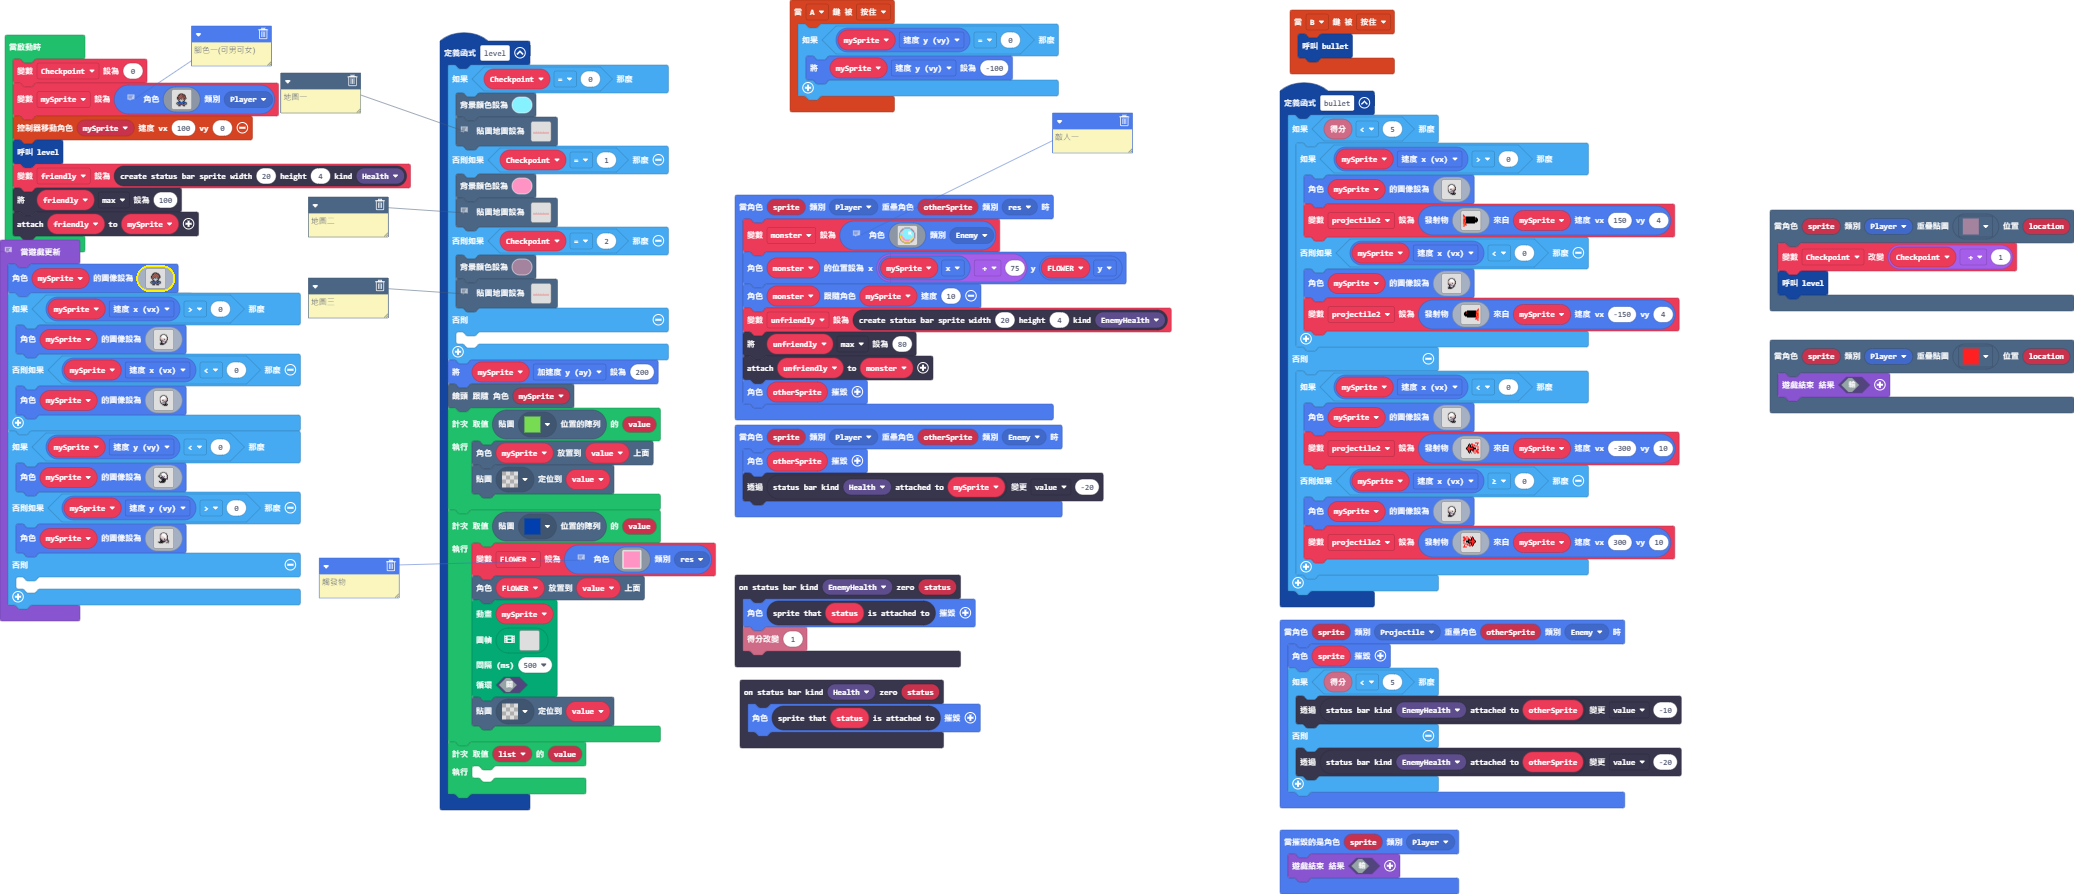
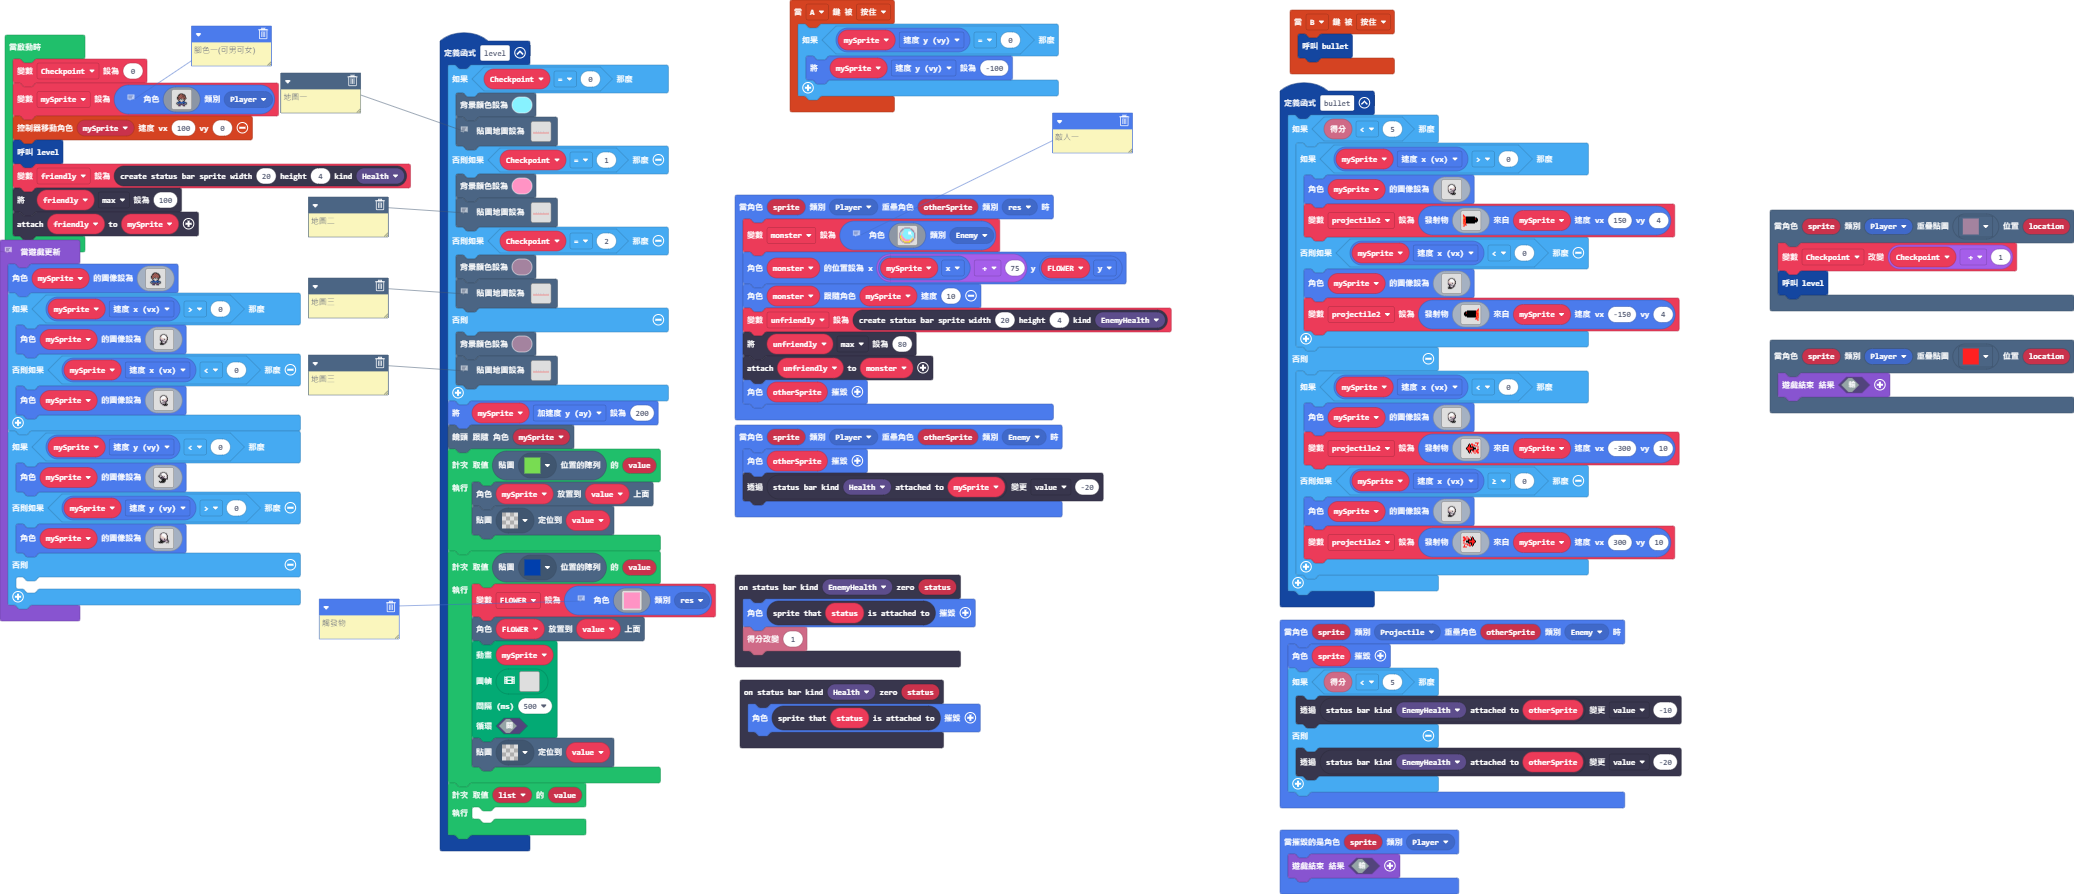
更新 main.blocks, main.ts, tilemap.g.jres, tilemap.g.ts

Changed region(s): [[0.1234, 0.3624, 0.3703, 0.9664]]

diff --git a/tilemap.g.ts b/tilemap.g.ts
@@ -55,22 +55,6 @@ namespace myTiles {
 . . . . . . . . . . . . . . . . 
 . . . . . . . . . . . . . . . . 
 `, [myTiles.transparency16], TileScale.Sixteen);
-            case "層級1":
[1 lines of base64/hex data omitted]
-..................................................
-..................................................
-..................................................
-..................................................
-..................................................
-..................................................
-..................................................
-..................................................
-..................................................
-222222222222....222....222......2222....22222.2222
-..................................................
-..................................................
-..................................................
-`, [myTiles.transparency16,myTiles.tile2,sprites.dungeon.floorLight0,myTiles.tile3,myTiles.tile4,myTiles.tile5], TileScale.Sixteen);
             case "層級4":
             case "層級4":return tiles.createTilemap(hex`1000100000000000000000000000000000000000000000000000000000000000000000000000000000000000000000000000000000000000000000000000000000000000000000000000000000000000000000000000000000000000000000000000000000000000000000000000000000000000000000000000000000000000000000000000000000000000000000000000000000000000000000000000000000000000000000000000000000000000000000000000000000000000000000000000000000000000000000000000000000000000000000000000000000000000000000000000000000000000000000000000000000000000000000000000000000000000`, img`
 . . . . . . . . . . . . . . . . 
@@ -168,6 +152,117 @@ namespace myTiles {
 `, [myTiles.transparency16], TileScale.Sixteen);
             case "層級9":
             case "層級9":return tiles.createTilemap(hex`1000100000000000000000000000000000000000000000000000000000000000000000000000000000000000000000000000000000000000000000000000000000000000000000000000000000000000000000000000000000000000000000000000000000000000000000000000000000000000000000000000000000000000000000000000000000000000000000000000000000000000000000000000000000000000000000000000000000000000000000000000000000000000000000000000000000000000000000000000000000000000000000000000000000000000000000000000000000000000000000000000000000000000000000000000000000000000`, img`
+. . . . . . . . . . . . . . . . 
+. . . . . . . . . . . . . . . . 
+. . . . . . . . . . . . . . . . 
+. . . . . . . . . . . . . . . . 
+. . . . . . . . . . . . . . . . 
+. . . . . . . . . . . . . . . . 
+. . . . . . . . . . . . . . . . 
+. . . . . . . . . . . . . . . . 
+. . . . . . . . . . . . . . . . 
+. . . . . . . . . . . . . . . . 
+. . . . . . . . . . . . . . . . 
+. . . . . . . . . . . . . . . . 
+. . . . . . . . . . . . . . . . 
+. . . . . . . . . . . . . . . . 
+. . . . . . . . . . . . . . . . 
+. . . . . . . . . . . . . . . . 
+`, [myTiles.transparency16], TileScale.Sixteen);
+            case "層級10":
+            case "層級10":return tiles.createTilemap(hex`1000100000000000000000000000000000000000000000000000000000000000000000000000000000000000000000000000000000000000000000000000000000000000000000000000000000000000000000000000000000000000000000000000000000000000000000000000000000000000000000000000000000000000000000000000000000000000000000000000000000000000000000000000000000000000000000000000000000000000000000000000000000000000000000000000000000000000000000000000000000000000000000000000000000000000000000000000000000000000000000000000000000000000000000000000000000000000`, img`
+. . . . . . . . . . . . . . . . 
+. . . . . . . . . . . . . . . . 
+. . . . . . . . . . . . . . . . 
+. . . . . . . . . . . . . . . . 
+. . . . . . . . . . . . . . . . 
+. . . . . . . . . . . . . . . . 
+. . . . . . . . . . . . . . . . 
+. . . . . . . . . . . . . . . . 
+. . . . . . . . . . . . . . . . 
+. . . . . . . . . . . . . . . . 
+. . . . . . . . . . . . . . . . 
+. . . . . . . . . . . . . . . . 
+. . . . . . . . . . . . . . . . 
+. . . . . . . . . . . . . . . . 
+. . . . . . . . . . . . . . . . 
+. . . . . . . . . . . . . . . . 
+`, [myTiles.transparency16], TileScale.Sixteen);
+            case "層級11":
+            case "層級11":return tiles.createTilemap(hex`1000100000000000000000000000000000000000000000000000000000000000000000000000000000000000000000000000000000000000000000000000000000000000000000000000000000000000000000000000000000000000000000000000000000000000000000000000000000000000000000000000000000000000000000000000000000000000000000000000000000000000000000000000000000000000000000000000000000000000000000000000000000000000000000000000000000000000000000000000000000000000000000000000000000000000000000000000000000000000000000000000000000000000000000000000000000000000`, img`
+. . . . . . . . . . . . . . . . 
+. . . . . . . . . . . . . . . . 
+. . . . . . . . . . . . . . . . 
+. . . . . . . . . . . . . . . . 
+. . . . . . . . . . . . . . . . 
+. . . . . . . . . . . . . . . . 
+. . . . . . . . . . . . . . . . 
+. . . . . . . . . . . . . . . . 
+. . . . . . . . . . . . . . . . 
+. . . . . . . . . . . . . . . . 
+. . . . . . . . . . . . . . . . 
+. . . . . . . . . . . . . . . . 
+. . . . . . . . . . . . . . . . 
+. . . . . . . . . . . . . . . . 
+. . . . . . . . . . . . . . . . 
+. . . . . . . . . . . . . . . . 
+`, [myTiles.transparency16], TileScale.Sixteen);
+            case "層級1":
[1 lines of base64/hex data omitted]
+..................................................
+..................................................
+..................................................
+..................................................
+..................................................
+..................................................
+..................................................
+..................................................
+..................................................
+222222222222....222....222......2222....22222.2222
+..................................................
+..................................................
+..................................................
+`, [myTiles.transparency16,myTiles.tile2,sprites.dungeon.floorLight0,myTiles.tile3,myTiles.tile4,myTiles.tile5], TileScale.Sixteen);
+            case "層級12":
+            case "層級12":return tiles.createTilemap(hex`1000100000000000000000000000000000000000000000000000000000000000000000000000000000000000000000000000000000000000000000000000000000000000000000000000000000000000000000000000000000000000000000000000000000000000000000000000000000000000000000000000000000000000000000000000000000000000000000000000000000000000000000000000000000000000000000000000000000000000000000000000000000000000000000000000000000000000000000000000000000000000000000000000000000000000000000000000000000000000000000000000000000000000000000000000000000000000`, img`
+. . . . . . . . . . . . . . . . 
+. . . . . . . . . . . . . . . . 
+. . . . . . . . . . . . . . . . 
+. . . . . . . . . . . . . . . . 
+. . . . . . . . . . . . . . . . 
+. . . . . . . . . . . . . . . . 
+. . . . . . . . . . . . . . . . 
+. . . . . . . . . . . . . . . . 
+. . . . . . . . . . . . . . . . 
+. . . . . . . . . . . . . . . . 
+. . . . . . . . . . . . . . . . 
+. . . . . . . . . . . . . . . . 
+. . . . . . . . . . . . . . . . 
+. . . . . . . . . . . . . . . . 
+. . . . . . . . . . . . . . . . 
+. . . . . . . . . . . . . . . . 
+`, [myTiles.transparency16], TileScale.Sixteen);
+            case "層級13":
+            case "層級13":return tiles.createTilemap(hex`1000100000000000000000000000000000000000000000000000000000000000000000000000000000000000000000000000000000000000000000000000000000000000000000000000000000000000000000000000000000000000000000000000000000000000000000000000000000000000000000000000000000000000000000000000000000000000000000000000000000000000000000000000000000000000000000000000000000000000000000000000000000000000000000000000000000000000000000000000000000000000000000000000000000000000000000000000000000000000000000000000000000000000000000000000000000000000`, img`
+. . . . . . . . . . . . . . . . 
+. . . . . . . . . . . . . . . . 
+. . . . . . . . . . . . . . . . 
+. . . . . . . . . . . . . . . . 
+. . . . . . . . . . . . . . . . 
+. . . . . . . . . . . . . . . . 
+. . . . . . . . . . . . . . . . 
+. . . . . . . . . . . . . . . . 
+. . . . . . . . . . . . . . . . 
+. . . . . . . . . . . . . . . . 
+. . . . . . . . . . . . . . . . 
+. . . . . . . . . . . . . . . . 
+. . . . . . . . . . . . . . . . 
+. . . . . . . . . . . . . . . . 
+. . . . . . . . . . . . . . . . 
+. . . . . . . . . . . . . . . . 
+`, [myTiles.transparency16], TileScale.Sixteen);
+            case "層級14":
+            case "層級14":return tiles.createTilemap(hex`1000100000000000000000000000000000000000000000000000000000000000000000000000000000000000000000000000000000000000000000000000000000000000000000000000000000000000000000000000000000000000000000000000000000000000000000000000000000000000000000000000000000000000000000000000000000000000000000000000000000000000000000000000000000000000000000000000000000000000000000000000000000000000000000000000000000000000000000000000000000000000000000000000000000000000000000000000000000000000000000000000000000000000000000000000000000000000`, img`
 . . . . . . . . . . . . . . . . 
 . . . . . . . . . . . . . . . . 
 . . . . . . . . . . . . . . . . 

diff --git a/main.ts b/main.ts
@@ -21,7 +21,9 @@ function level () {
         // 地圖三
         tiles.setTilemap(tilemap`層級1`)
     } else {
-    	
+        scene.setBackgroundColor(11)
+        // 地圖三
+        tiles.setTilemap(tilemap`層級1`)
     }
     mySprite.ay = 200
     scene.cameraFollowSprite(mySprite)
